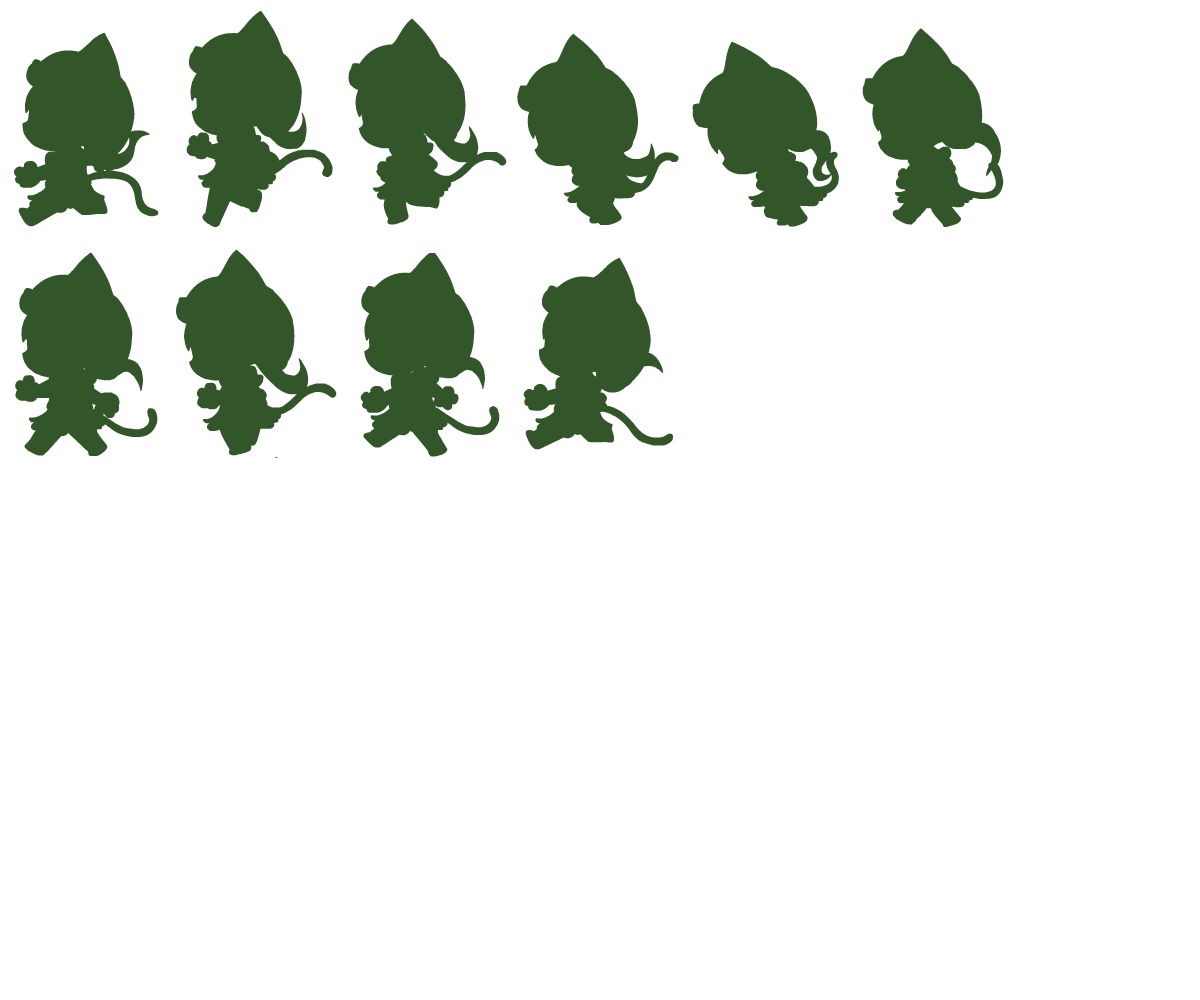
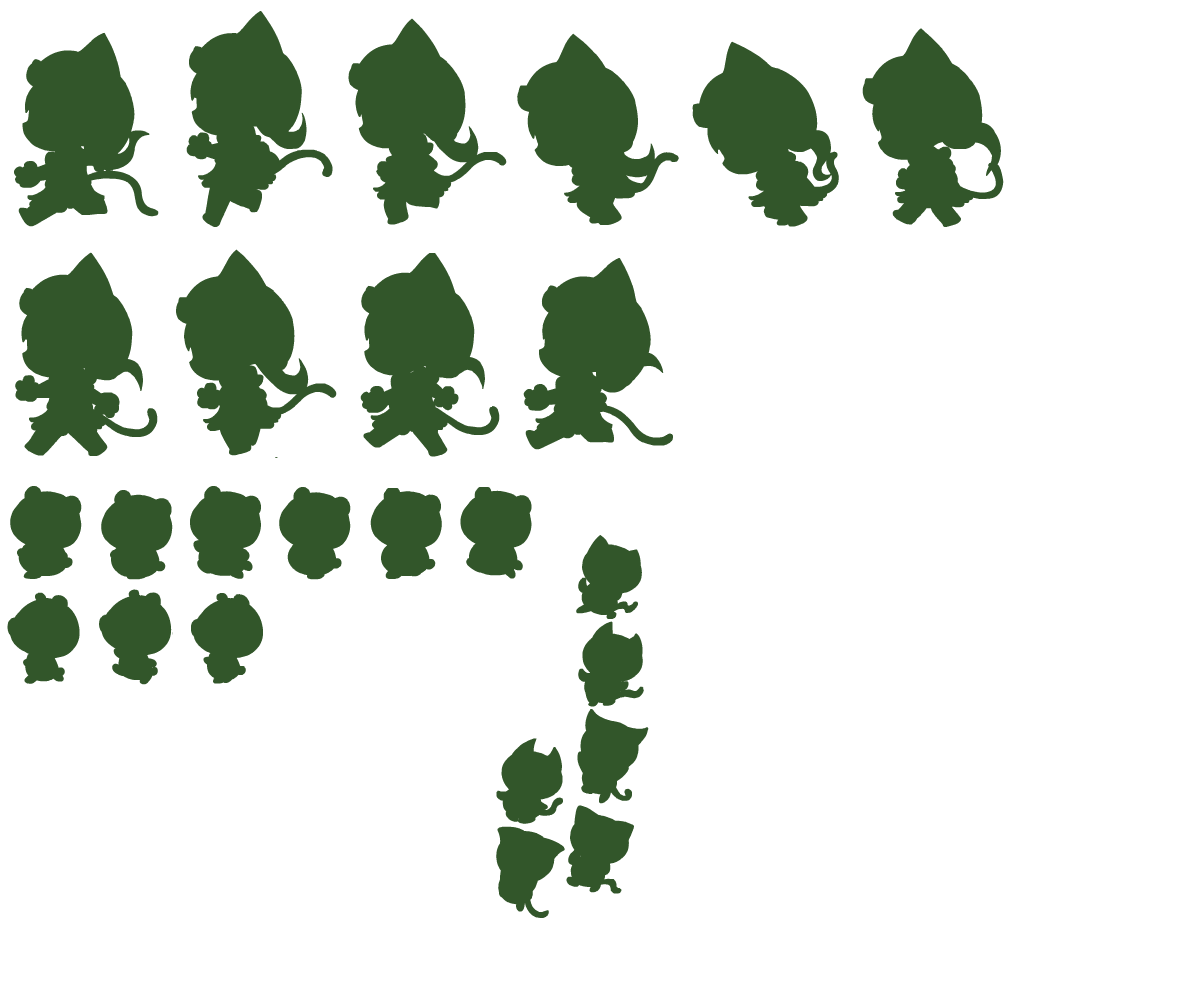
commint
commint

Changed region(s): [[0.0, 0.465, 0.4625, 0.682], [0.4008, 0.527, 0.555, 0.93]]

diff --git a/steps.html b/steps.html
@@ -5,65 +5,124 @@
 	<title>Document</title>
 	<style type="text/css">
 		  * {margin: 0;padding:0;}
+		  body {background:black;margin-top: 80px;}
 		  .mod {
 		  	width:356px;
 		  	height:512px;
 		  	margin:auto;
-		  	background: url(loading.png) no-repeat;background-size: 356px 512px;
+		  	position: relative;
+		  	background: url(loading.png) no-repeat;
+		  	background-size: 356px 512px;
 		  }
+		  .mod div {position: absolute;background: url(steps.png) no-repeat;background-size: 600px 500px;}
 	      .steps1 {
-	      	width:170px;
-	      	height: 228px;
-	      	background: url(steps.png) no-repeat;
+	      	width:85px;
+	      	height: 114px;
+	      	left: 38px;
+	      	bottom:106px;
+	      	-webkit-animation:steps1 1s step-end infinite;
 	      	/*-webkit-animation-name: steps-i1, move; 
 			-webkit-animation-duration: 1s, 10s;   
 			-webkit-animation-direction: normal, normal;
 			-webkit-animation-iteration-count: infinite,infinite;
 			-webkit-animation-timing-function:  step-end,linear;*/
-			-webkit-animation:steps1 1s step-end infinite;
+	      }
+	      .steps2 {
+	      	width:45px;
+	      	height: 62px;
+	      	position: absolute;
+	      	left: 126px;
+	      	bottom:124px;
+			-webkit-animation:steps2 750ms step-end infinite;
+	      }
+	      .steps3 {
+	      	width:45px;
+	      	height: 62px;
+	      	position: absolute;
+	      	left: 168px;
+	      	bottom:118px;
+			-webkit-animation:steps3 270ms step-end infinite;
 	      }
 	      @-webkit-keyframes steps1 {
 	      	 0% {
 				 background-position: 0 0;
 	      	 }
 	      	 10% {
-				 background-position: -170px 0;
+				 background-position: -85px 0;
 	      	 }
 	      	 20% {
-				 background-position: -340px 0;
+				 background-position: -170px 0;
 	      	 }
 	      	 30% {
-				 background-position: -510px 0;
+				 background-position: -255px 0;
 	      	 }
 	      	 40% {
-				 background-position: -680px 0;
+				 background-position: -340px 0;
 	      	 }
 	      	 50% {
-				 background-position: -850px 0;
+				 background-position: -425px 0;
 	      	 }
 	      	 60% {
-				 background-position: 0 -228px;
+				 background-position: 0 -114px;
 	      	 }
 	      	 70% {
-				 background-position: -170px -228px;
+				 background-position: -85px -114px;
 	      	 }
 	      	 80% {
-				 background-position: -340px -228px;
+				 background-position: -170px -114px;
 	      	 }
 	      	 90% {
-				 background-position: -510px -228px;
+				 background-position: -255px -114px;
 	      	 }
 	      	 100% {
-				 background-position: -680px -228px;
+				 background-position: -340px -114px;
+	      	 }
+	      }
+	      @-webkit-keyframes steps2 {
+	      	 0% {
+				 background-position: 0 -228px;
+	      	 }
+	      	 16.666% {
+				 background-position: -45px -228px;
+	      	 }
+	      	 32.332% {
+				 background-position: -90px -228px;
+	      	 }
+	      	 49.998% {
+				 background-position: -135px -228px;
+	      	 }
+	      	 66.664% {
+				 background-position: -180px -228px;
+	      	 }
+	      	 83.333% {
+				 background-position: -225px -228px;
+	      	 }
+	      	 100% {
+				 background-position: -270px -228px;
+	      	 }
+	      }
+	      @-webkit-keyframes steps3 {
+	      	 0% {
+				 background-position: 0 -290px;
+	      	 }
+	      	 50% {
+				 background-position: -90px -290px;
+	      	 }
+	      	 100% {
+				 background-position: -270px -290px;
 	      	 }
 	      }
 	</style>
 </head>
 <body>
 	<div class="mod">
-		 <div class="steps1">
-			 
-		 </div>
+		 <div class="steps1"></div>
+		 <div class="steps2"></div>
+		 <div class="steps3"></div>
+		 <div class="steps4"></div>
+		 <div class="steps5"></div>
+		 <div class="steps6"></div>
+		 <div class="steps7"></div>
 	</div>
 </body>
 </html>
